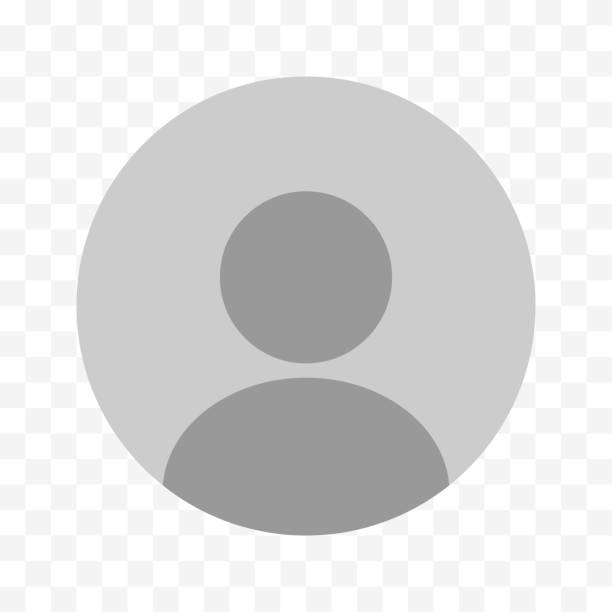
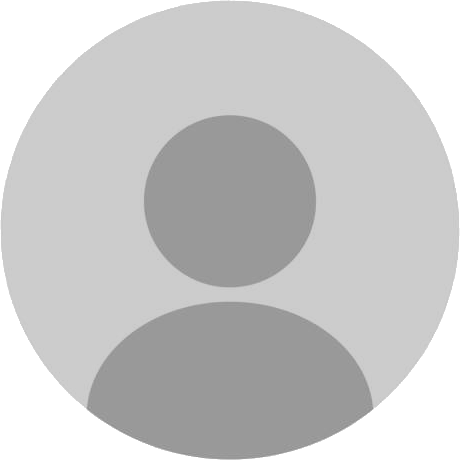
Update

diff --git a/src/common/common.py b/src/common/common.py
@@ -3,9 +3,11 @@ from common import Card
 from common import Family
 from common import FamilyCard
 from common import Head
+import copy
+import math
 import os
 import pickle
-from PIL import Image
+from PIL import Image, ImageDraw
 import struct
 import sys
 
@@ -124,7 +126,22 @@ def sendDataMessage(socket, message, obj, closed):
             return
             
         try:
-            d = pickle.dumps(obj)
+            d = None
+            
+            while (not d):
+                if (closed):
+                    return
+
+                try:
+                    d = pickle.dumps(obj)
+                except OSError:
+                    pass
+                except AttributeError:
+                    pass
+                except ValueError:
+                    pass
+                except SyntaxError:
+                    pass
             socket.send(message + struct.pack('!i', len(d)))
             socket.send(d)
             send = False
@@ -153,3 +170,40 @@ def receiveDataMessage(socket, data, message, closed):
     data = data[size:]
 
     return (True, data, obj)    
+
+def extRoundImage(image, color = (0, 0, 0, 255)):
+    radius = int(math.sqrt(image.width ** 2 + image.height ** 2))
+    img = Image.new('RGBA', (radius, radius))
+
+    draw = ImageDraw.Draw(img)
+    
+    draw.ellipse([0, 0, radius, radius], fill = color, outline = color)
+
+    i = Image.new('RGBA', (radius, radius))
+    i.paste(image, ((radius - image.width) // 2,
+                    (radius - image.height) // 2))
+    img = Image.alpha_composite(img, i)    
+
+    return img
+
+def intRoundImage(image, color = (0, 0, 0, 255)):
+    radius = min(image.width, image.height)
+    mask = Image.new('L', (image.width, image.height), color = 0)
+    draw = ImageDraw.Draw(mask)
+    draw.ellipse([(image.width - radius) // 2, (image.height - radius) // 2,
+                  radius, radius], fill = 255, outline = 255)
+
+    imgTmp = copy.deepcopy(image)
+    imgTmp.putalpha(mask)
+    
+    img = Image.new('RGBA', (image.width, image.height))
+    draw = ImageDraw.Draw(img)
+    draw.ellipse([(image.width - radius) // 2, (image.height - radius) // 2,
+                  radius, radius], fill = color, outline = color)
+    return img
+    i = Image.new('RGBA', (image.width, image.height))
+    i.paste(imgTmp, ((image.width - radius) // 2,
+                     (image.height - radius) // 2))
+    img = Image.alpha_composite(img, i)    
+
+    return img

diff --git a/src/client/GUI.py b/src/client/GUI.py
@@ -9,6 +9,7 @@ from PIL import Image
 from PyQt5.QtCore import QCoreApplication, QObject, Qt, QRectF, QTimer
 from PyQt5.QtGui import QKeySequence, QIcon, QPixmap, QPolygonF, QTransform
 from PyQt5.QtWidgets import QApplication, QButtonGroup, QComboBox, QDialog, QFileDialog, QHBoxLayout, QLineEdit, QMessageBox, QVBoxLayout, QLabel, QPushButton, QRadioButton, QShortcut
+import random
 from server import Server
 import struct
 import threading
@@ -50,8 +51,8 @@ class GUI(QObject):
         self._cardSize = (0, 0)
         self._overCardRatio = 1 / 3
         self._client = None
-        self._avatar = None
-        self._avatarFilename = ""
+        self._avatarFilename = os.path.dirname(__file__) + "/../../images/avatar.png"
+        self._avatar = Image.open(os.path.dirname(__file__) + "/../../images/avatar.png")
         self._init = False
         self._localServer = None
         self._localClients = []
@@ -195,13 +196,22 @@ class GUI(QObject):
             return True
 
         host = "localhost"
+        port = 12345
 
         if (self._localRadioButton.isChecked()):
-            self._localServer = Server.Server()
+            launched = False
+        
+            while (not launched):
+                try:
+                    self._localServer = Server.Server(port = port)
+                    launched = True
+                except OSError:
+                    port = random.randrange(1024, 49151)
+            
             threading.Thread(target = self._localServer.acceptConnections).start()
             
             for i in range(1, self._playerNumber):
-                self._localClients.append(Client.Client(self, self._playerNumber, False, host))
+                self._localClients.append(Client.Client(self, self._playerNumber, False, host, port))
                 self._localClients[-1]._socket.send(b"room-" + struct.pack('!i', self._playerNumber))
         else:
             #TODO: put a valid server address
@@ -216,7 +226,7 @@ class GUI(QObject):
 
         self._cardSize = (int(56 * self._globalRatio), int(109 * self._globalRatio))
 
-        self._client = Client.Client(self, self._playerNumber, True, host)
+        self._client = Client.Client(self, self._playerNumber, True, host, port)
         self._client._socket.send(b"room-" + struct.pack('!i', self._playerNumber))
 
         self._window = Window(self)

diff --git a/src/common/Game.py b/src/common/Game.py
@@ -336,7 +336,7 @@ class GameData:
         
             draw = ImageDraw.Draw(tableImage)
         
-            font = ImageFont.truetype("DejaVuSans.ttf", 20)
+            font = ImageFont.truetype("DejaVuSans.ttf", 14)
             bbox = draw.textbbox((0, 0), text, font = font, spacing = 0, align = "center")
             w = bbox[2] - bbox[0]
             h = int(1.5 * (bbox[3] - bbox[1]))
@@ -349,6 +349,20 @@ class GameData:
             
             x = positions[j][0]
             y = positions[j][1]
+
+            img = common.intRoundImage(self._players[i]._avatar)
+            size = (32, 32)
+
+            if (not img):
+                img = Image.new('RGBA', size)
+            
+            img = img.resize(size)
+            img = img.rotate(angles[j], expand = True)
+            
+            image = Image.new('RGBA', (tableImage.width, tableImage.height))
+            image.paste(img, (int(x - gui._globalRatio * 120 * math.sin(math.radians(angles[j])) - img.width / 2),
+                              int(y - gui._globalRatio * 120 * math.cos(math.radians(angles[j])) - img.height / 2)))
+            tableImage = Image.alpha_composite(tableImage, image)
 
             image = Image.new('RGBA', (tableImage.width, tableImage.height))
             image.paste(textImage, (int(x - gui._globalRatio * 80 * math.sin(math.radians(angles[j])) - textImage.width / 2),

diff --git a/src/common/Player.py b/src/common/Player.py
@@ -2,6 +2,8 @@ from common import Card
 from common import Contract
 from common import Family
 from common import common
+import os
+from PIL import Image
 from PyQt5.QtCore import QCoreApplication
 from PyQt5 import QtTest
 import random
@@ -16,7 +18,7 @@ class Player:
                  "Laura", "Pierre", "Simon"]
 
         self._name = names[random.randrange(len(names))]
-        self._avatar = None
+        self._avatar = Image.open(os.path.dirname(__file__) + "/../../images/avatar.png")
         self._connected = True
         self._idle = False
         self._folds = []

diff --git a/src/main.py b/src/main.py
@@ -18,3 +18,4 @@ if (__name__ == "__main__"):
         del gui
         
         sys.exit(r)
+
